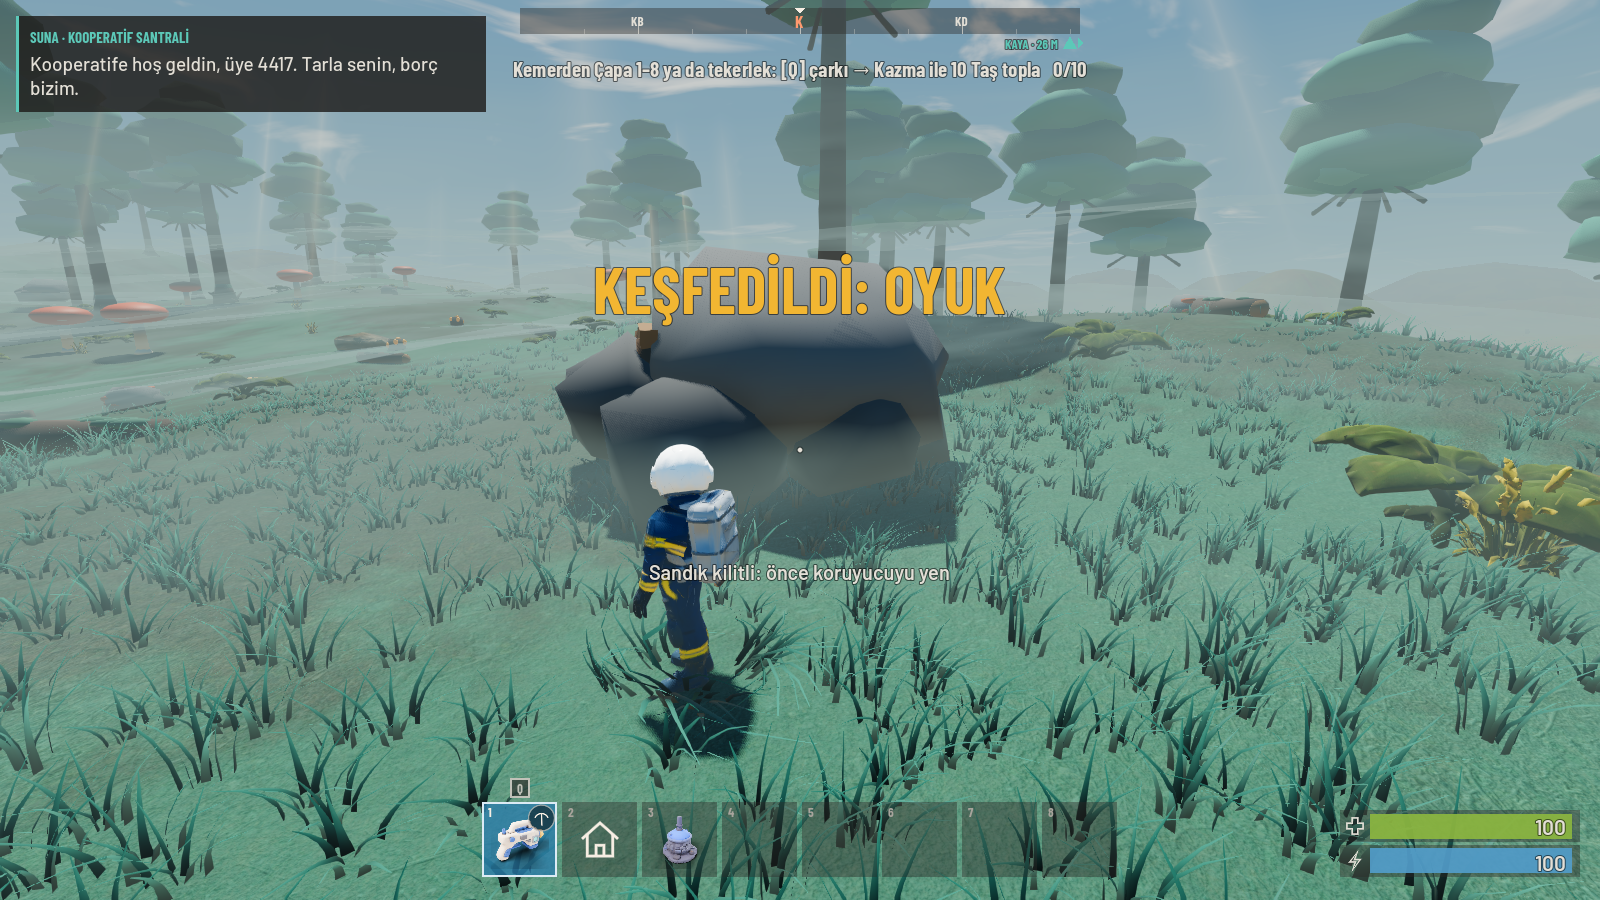
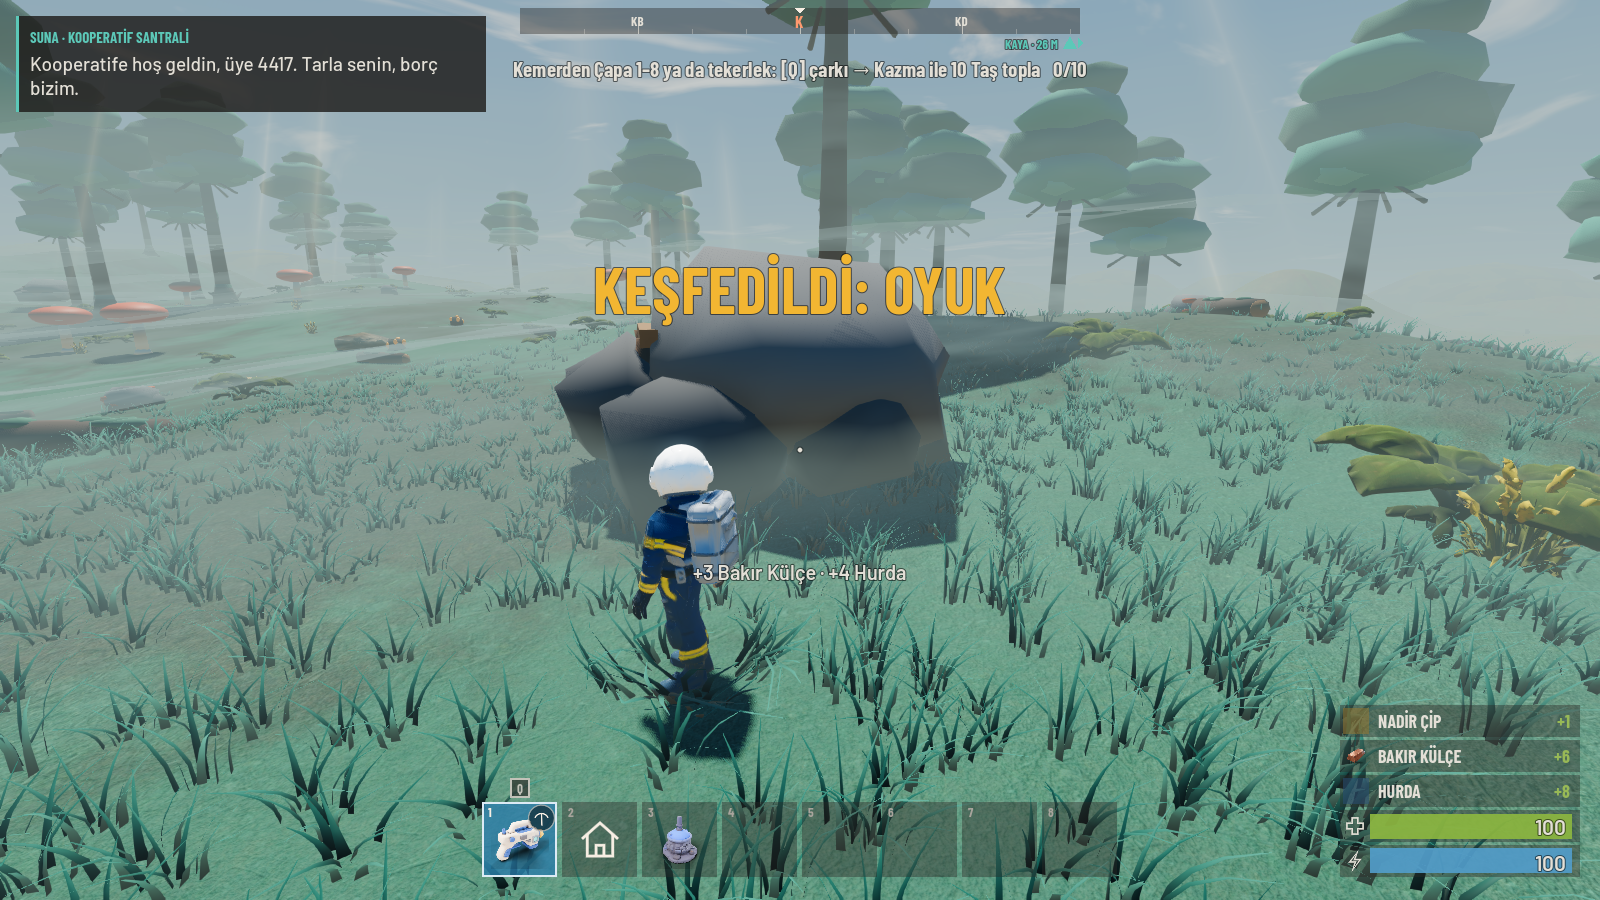
oyuk: Kostebek odasi aydinlik (duvar fenerleri, ortam isigi oyuk.json), yarasalar daha secik

diff --git a/game/scripts/world/OyukRoom.cs b/game/scripts/world/OyukRoom.cs
@@ -100,6 +100,16 @@ public partial class OyukRoom : Node3D
             .Pillow(new Vector3(2.4f, 3.0f, 0.1f), MeshKit.At(door + new Vector3(0, 1.5f, 0.35f)), new Color(0.95f, 0.75f, 0.45f));
         AddChild(arch.Instance());
         AddChild(new OmniLight3D { Position = door + new Vector3(0, 2.2f, -1f), LightColor = new Color(1f, 0.78f, 0.5f), LightEnergy = 1.4f, OmniRange = 9f, ShadowEnabled = false });
+        // Duvar fenerleri (Kostebek odasi aydinlik; karanlik yalniz Yarasa'nin mekanigi).
+        for (int i = 0; i < g.WallLights; i++)
+        {
+            float a = i * Mathf.Tau / g.WallLights + 0.26f;
+            var p = new Vector3(Mathf.Cos(a) * (Radius - 0.6f), 3.2f, Mathf.Sin(a) * (Radius - 0.6f));
+            AddChild(new MeshKit().Cylinder(0.12f, 0.08f, 0.9f, MeshKit.At(p + Vector3.Down * 0.5f), Palette.Wood, 6)
+                .Sphere(0.2f, MeshKit.At(p), new Color(1f, 0.8f, 0.4f), 8, 4)
+                .Instance(new StandardMaterial3D { VertexColorUseAsAlbedo = true, EmissionEnabled = true, Emission = new Color(1f, 0.6f, 0.25f), EmissionEnergyMultiplier = 0.6f }));
+            AddChild(new OmniLight3D { Position = p + (Vector3.Zero - p with { Y = 0 }).Normalized() * 0.6f, LightColor = new Color(1f, 0.78f, 0.5f), LightEnergy = 1.6f, OmniRange = 12f, ShadowEnabled = false });
+        }
         // Zayif dolgu: oda tamamen kor olmasin (yarasa odasinda daha da zayif; karanlik dovusun parcasi).
         AddChild(new OmniLight3D { Position = new Vector3(0, Height * 0.7f, 0), LightColor = new Color(0.6f, 0.62f, 0.8f), LightEnergy = g.Kind == "yarasa" ? 0.35f : 0.8f, OmniRange = Radius * 1.6f });
     }

diff --git a/game/scripts/world/OyukGuardians.cs b/game/scripts/world/OyukGuardians.cs
@@ -95,9 +95,9 @@ public partial class BatVisual : Node3D
     {
         Hang = hang;
         var bat = new MeshKit()
-            .Sphere(0.16f, MeshKit.At(0, 0, 0), new Color("3E3550"), 8, 4)
-            .Pillow(new Vector3(0.55f, 0.04f, 0.28f), MeshKit.At(new Vector3(-0.3f, 0.02f, 0), new Vector3(0, 0, 0.35f)), new Color("2A2338"), 0.2f)
-            .Pillow(new Vector3(0.55f, 0.04f, 0.28f), MeshKit.At(new Vector3(0.3f, 0.02f, 0), new Vector3(0, 0, -0.35f)), new Color("2A2338"), 0.2f)
+            .Sphere(0.16f, MeshKit.At(0, 0, 0), new Color("6A5C86"), 8, 4)
+            .Pillow(new Vector3(0.55f, 0.04f, 0.28f), MeshKit.At(new Vector3(-0.3f, 0.02f, 0), new Vector3(0, 0, 0.35f)), new Color("54496E"), 0.2f)
+            .Pillow(new Vector3(0.55f, 0.04f, 0.28f), MeshKit.At(new Vector3(0.3f, 0.02f, 0), new Vector3(0, 0, -0.35f)), new Color("54496E"), 0.2f)
             .Build();
         _mm = new MultiMesh { TransformFormat = MultiMesh.TransformFormatEnum.Transform3D, Mesh = bat, InstanceCount = count };
         AddChild(new MultiMeshInstance3D { Multimesh = _mm, MaterialOverride = MeshKit.StaticMaterial });

diff --git a/src/Kabarma.Sim/GameData.Oyuk.cs b/src/Kabarma.Sim/GameData.Oyuk.cs
@@ -74,6 +74,9 @@ public sealed class OyukGuardianDef
     public float LampSeconds { get; set; } = 0f;
     /// <summary>Yumagin tavandan asagi sarktigi yukseklik (m, tabandan).</summary>
     public float HangHeight { get; set; } = 7.5f;
+    /// <summary>Odanin ortam isigi (0: Interior.Ambient) ve duvar fenerleri (adet; karanlik yalniz Yarasa'nin mekanigi).</summary>
+    public float Ambient { get; set; } = 0f;
+    public int WallLights { get; set; } = 0;
     /// <summary>Oda tavani (m); 0 ise Interior.Height.</summary>
     public float RoomHeight { get; set; } = 0f;
 

diff --git a/game/scripts/world/OyukSystem.cs b/game/scripts/world/OyukSystem.cs
@@ -113,7 +113,7 @@ public partial class OyukSystem : Node3D
         Inside = room;
         _lastMouth = _d.World.Ground(new Vector3(room.Poi.X, 0, room.Poi.Z));
         P.Of(room.Poi.Id).Entered++;
-        _d.World.SetIndoor(true, Def.Interior.Ambient);
+        _d.World.SetIndoor(true, room.Guardian.Ambient > 0 ? room.Guardian.Ambient : Def.Interior.Ambient);
         Teleport(room.DoorPos + (room.Center - room.DoorPos).Normalized() * 1.6f);
         if (!P.IsCleared(room.Poi.Id)) StartFight(room);
         _d.State.Explore.Discover(room.Poi.Id);
